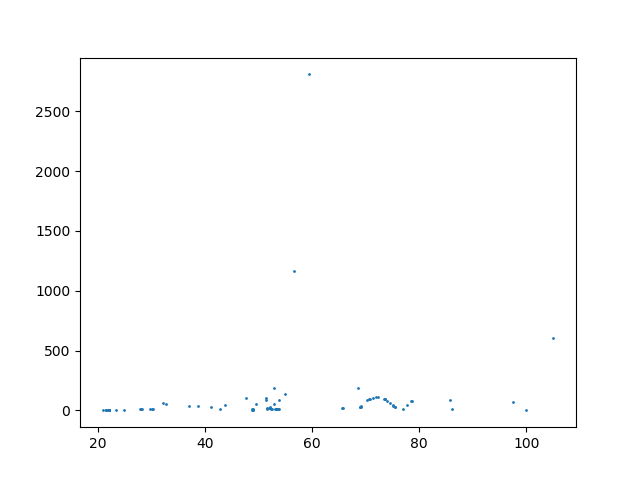
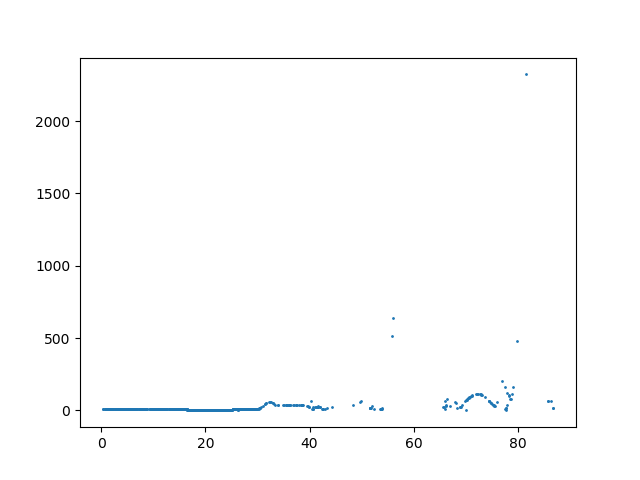
I believe it's the best

diff --git a/SIR-MCMC.py b/SIR-MCMC.py
@@ -11,7 +11,7 @@ START_YEAR = 2008
 END_YEAR=2020
 dt = 1/52
 gamma = 0
-lastGamma =50 # 22
+lastGamma =70 # 22
 Ratio=0
 GAMMA=[]
 
@@ -25,7 +25,7 @@ E=1   # 3我之前不能收敛是因为这个调得太小了
 E0=E
 lastE=E
 Continue=0
-MIN_CONTINUE=20
+MIN_CONTINUE=15
 
 global mu
 mu = 1/50
@@ -171,11 +171,11 @@ def draw():
     plt.show()
     plt.pause(5)
     plt.savefig(fig)
-    # plt.close()
-    # plt.scatter(GAMMA,LK,s=1)
-    # plt.show()
-    # plt.pause(5)
-    # plt.savefig("gamma-lk")
+    plt.close()
+    plt.scatter(GAMMA,LK,s=1)
+    plt.show()
+    plt.pause(5)
+    plt.savefig("gamma-lk")
 
 
 
@@ -211,15 +211,19 @@ for cnt_step in range(MAX_PACE):
         if abs(gamma - lastGamma) < E:
             Continue = Continue + 1
             if Continue % 5 == 0:  # 2 was set by hand
+                divide=5
+                if sigma < 1:
+                    divide=2
                 lastE=E
-                E=E/5
+                E=E/divide
                 lastSigma=sigma
-                sigma = sigma /5  # 5 was set by hand
-                if lastSigma>2:
-                    lastSigma=2
-                if sigma<1:
-                    lastSigma = sigma
-                    sigma = sigma /5
+                sigma = sigma /divide  # 5 was set by hand
+                if lastSigma>1:
+                    lastSigma=1
+                    sigma=1
+                # if 1 < sigma <= 2:
+                #     lastSigma = sigma
+                #     sigma = sigma / 1.1
                     # need to estimate again when sigma changed
                 estimate(lastGamma)
                 lastLk=get_likelihood(sigma)

diff --git a/README.md b/README.md
@@ -3,7 +3,7 @@
 ## 特点
 
 1. 通过计算欧式距离的5次方 *（5是我随便选的，只要大于1，本质上应该是一样的）* 来衡量预测值与真实值的差距，从而避免使用允许范围较小的math.exp()。同时，实现对偏差值的加权以避免拟合出距离每一点都很远但比其他只有部分偏离的评分高的情况。
-2. 通过采用允许误差较大的预测方式，实现了将gamma从50收敛到22左右
+2. 通过采用允许误差较大的预测方式，实现了将gamma从70收敛到22左右
 3. 对步长sigma和判定收敛的E做了逐步收敛，从而实现大范围的拟合
 
 ## 细节说明
@@ -13,4 +13,4 @@
 4. 我对预测的感染人数在整条曲线估算完后做了随机扰动
 5. 使用异常处理解决超出范围的问题
 6. 在一轮判定收敛失败后会将sigma和E调整为上一次缩小前的值
-7. 由于开始的步长较大，容易走到120-150来回游荡，可能需要较多步数才能走到22附近 *（运气好往下走的话就不会，如果遇到这种情况，目前的解决方案只有重启程序）*
+7. 由于75是一个局部最优解，容易走到75左右来回游荡，可能需要较多步数才能走到22附近 *（运气好往下走的话就不会，如果遇到这种情况，目前的解决方案只有重启程序）*
